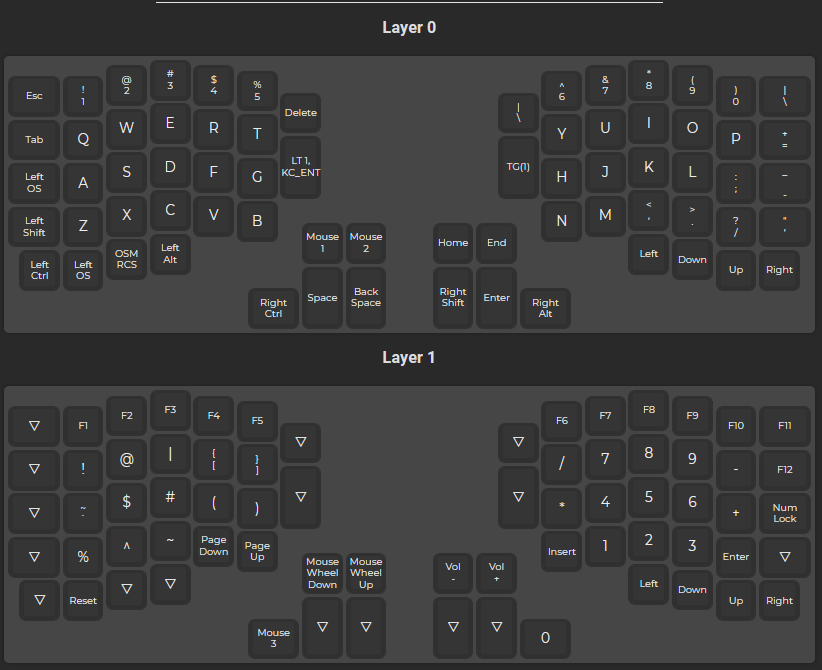
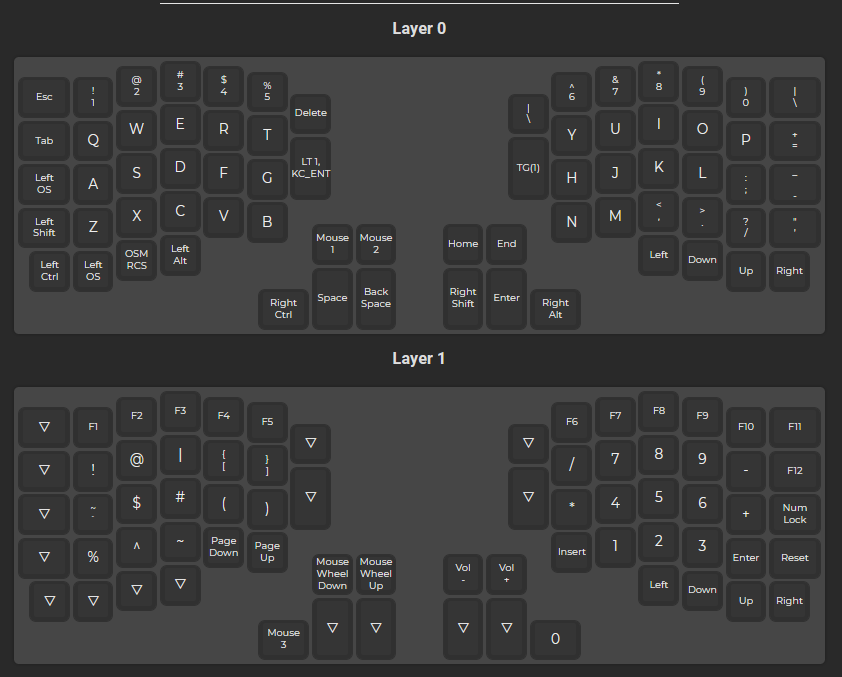
Changed reset button to a less common spot to avoid wrong presses

diff --git a/keymap.c b/keymap.c
@@ -10,7 +10,7 @@
 
 const uint16_t PROGMEM keymaps[][MATRIX_ROWS][MATRIX_COLS] = {
 	[0] = LAYOUT(KC_ESC, KC_1, KC_2, KC_3, KC_4, KC_5, KC_6, KC_7, KC_8, KC_9, KC_0, KC_NUBS, KC_TAB, KC_Q, KC_W, KC_E, KC_R, KC_T, KC_DEL, KC_NUHS, KC_Y, KC_U, KC_I, KC_O, KC_P, KC_EQL, KC_LGUI, KC_A, KC_S, KC_D, KC_F, KC_G, LT(1,KC_ENT), TG(1), KC_H, KC_J, KC_K, KC_L, KC_SCLN, KC_MINS, KC_LSFT, KC_Z, KC_X, KC_C, KC_V, KC_B, KC_BTN1, KC_BTN2, KC_HOME, KC_END, KC_N, KC_M, KC_COMM, KC_DOT, KC_SLSH, KC_QUOT, KC_LCTL, KC_LGUI, OSM(MOD_RCTL|MOD_RSFT), KC_LALT, KC_RCTL, KC_SPC, KC_BSPC, KC_RSFT, KC_ENT, KC_RALT, KC_LEFT, KC_DOWN, KC_UP, KC_RGHT),
-	[1] = LAYOUT(KC_TRNS, KC_F1, KC_F2, KC_F3, KC_F4, KC_F5, KC_F6, KC_F7, KC_F8, KC_F9, KC_F10, KC_F11, KC_TRNS, KC_EXLM, KC_AT, KC_PIPE, KC_LBRC, KC_RBRC, KC_TRNS, KC_TRNS, KC_PSLS, KC_P7, KC_P8, KC_P9, KC_PMNS, KC_F12, KC_TRNS, KC_GRV, KC_DLR, KC_HASH, KC_LPRN, KC_RPRN, KC_TRNS, KC_TRNS, KC_PAST, KC_P4, KC_P5, KC_P6, KC_PPLS, KC_NUM, KC_TRNS, KC_PERC, KC_CIRC, KC_TILD, KC_PGDN, KC_PGUP, KC_WH_D, KC_WH_U, KC_VOLD, KC_VOLU, KC_INS, KC_P1, KC_P2, KC_P3, KC_PENT, KC_TRNS, KC_TRNS, QK_BOOT, KC_TRNS, KC_TRNS, KC_BTN3, KC_TRNS, KC_TRNS, KC_TRNS, KC_TRNS, KC_P0, KC_LEFT, KC_DOWN, KC_UP, KC_RGHT)
+	[1] = LAYOUT(KC_TRNS, KC_F1, KC_F2, KC_F3, KC_F4, KC_F5, KC_F6, KC_F7, KC_F8, KC_F9, KC_F10, KC_F11, KC_TRNS, KC_EXLM, KC_AT, KC_PIPE, KC_LBRC, KC_RBRC, KC_TRNS, KC_TRNS, KC_PSLS, KC_P7, KC_P8, KC_P9, KC_PMNS, KC_F12, KC_TRNS, KC_GRV, KC_DLR, KC_HASH, KC_LPRN, KC_RPRN, KC_TRNS, KC_TRNS, KC_PAST, KC_P4, KC_P5, KC_P6, KC_PPLS, KC_NUM, KC_TRNS, KC_PERC, KC_CIRC, KC_TILD, KC_PGDN, KC_PGUP, KC_WH_D, KC_WH_U, KC_VOLD, KC_VOLU, KC_INS, KC_P1, KC_P2, KC_P3, KC_PENT, QK_BOOT, KC_TRNS, KC_TRNS, KC_TRNS, KC_TRNS, KC_BTN3, KC_TRNS, KC_TRNS, KC_TRNS, KC_TRNS, KC_P0, KC_LEFT, KC_DOWN, KC_UP, KC_RGHT)
 };
 
 #if defined(ENCODER_ENABLE) && defined(ENCODER_MAP_ENABLE)
